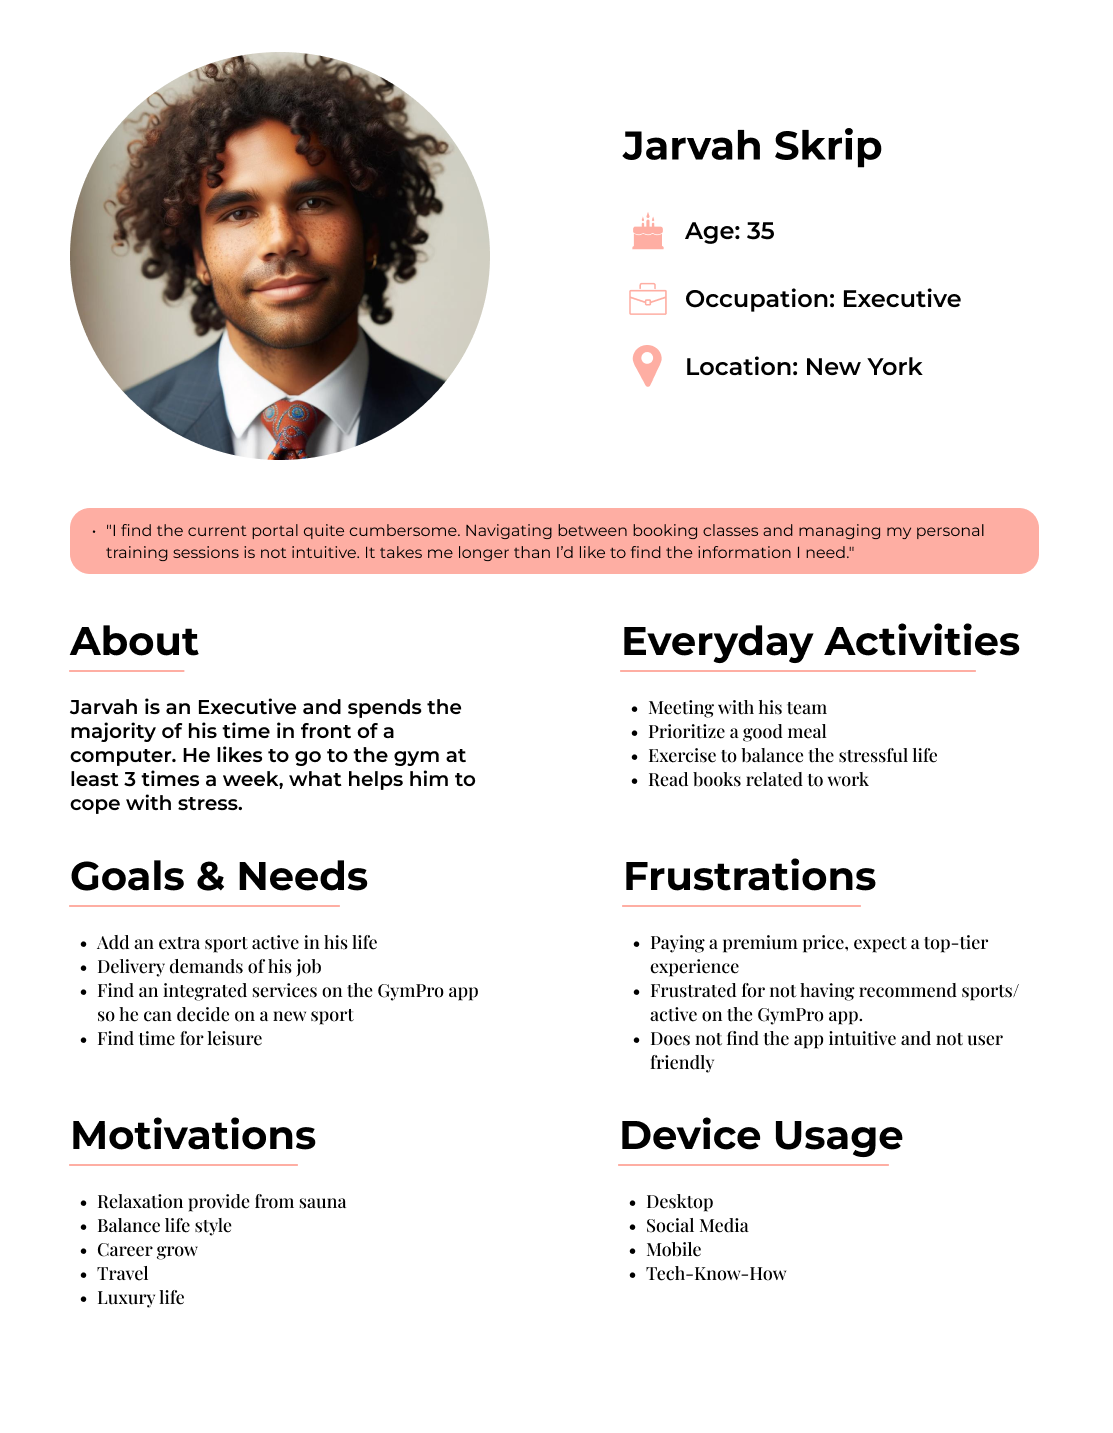
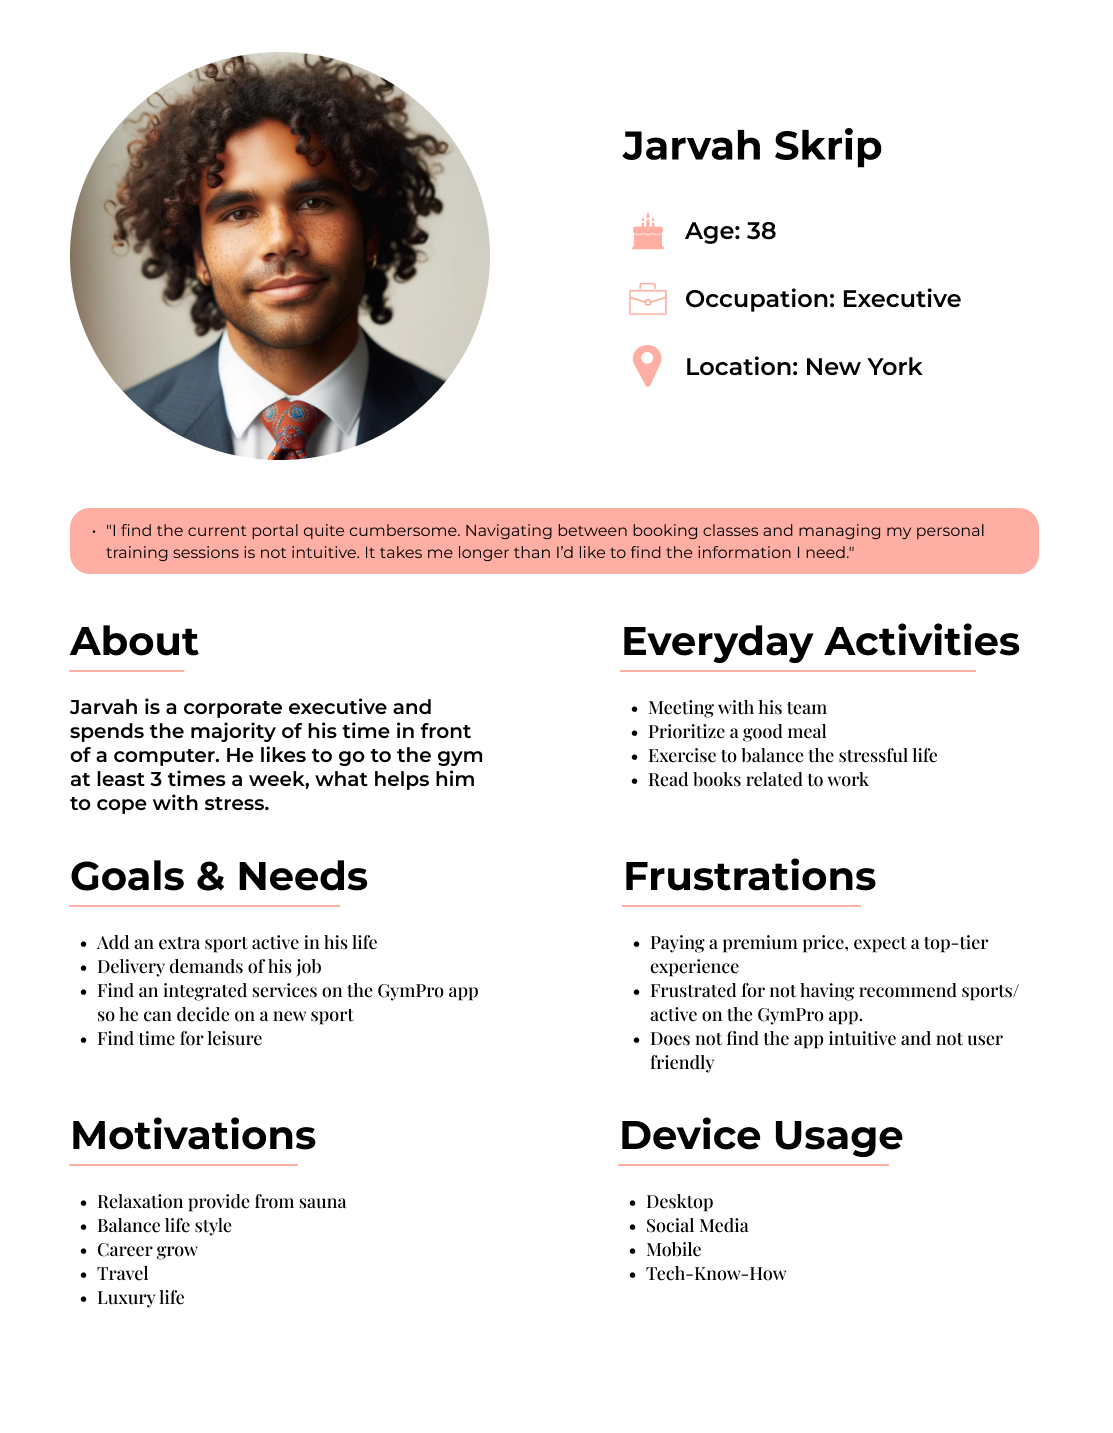
lo-fi-wireframe

Changed region(s): [[0.0611, 0.4913, 0.4277, 0.5834]]

diff --git a/projects/gym.html b/projects/gym.html
@@ -160,15 +160,14 @@
             <h3>Personas</h3>
             <p>Persona is a tool that represents a group of target users and is created based on research data. Creating 2 personas helps to understand of what the users are looking for.</p>
             <p>The primary persona is Jarvah the high-income client. He goes to the gym almost every day, however he finds hard to make better use of all services offered because the app is not user friendly.</p>
-            <p>The secondary persona is Rachel, is a sport enthusiast, who find it hard to coordanate class and revory in the SPA and also wants to find her suppliments and gear sports in one realiable place.</p>
+            <p>The secondary persona is Rachel, is a sport enthusiast, who find it hard to coordanate class, recovery in the SPA and also wants to find her suppliments and gear sports in one realiable place.</p>
             <div class="container-personas">
               <img class="persona" src="../assets/PersonaGym1.png" alt="persona">
               <img class="persona" src="../assets/PersonaGym2.png" alt="persona">
             </div>
-            <h3>Problem Statement</h3>
-            <p>GymPro's current member portal is not meeting the expectations of its luxury-seeking, high-income and sport enthusiasts clientele. The portal's poor usability, lack of centralized booking, and insufficient class information are significant pain points for members. These issues are causing frustration, reducing the frequency of portal usage, and negatively impacting overall member satisfaction and engagement with GymPro's services.</p>
             <h3>How Might We</h3>
             <p>HMW is a design thinking activity used to translate problems into opportunites for design.</p>
+            <p>The plan is to generate as many as questions to validadte and find out insights.</p>
             <ol>
               <li>HMW improve the usability of the GymPro member portal to enhance user satisfaction and engagement?</li>
               <li>HMW create a centralized booking system within the GymPro portal to simplify the scheduling process for members?</li>
@@ -183,6 +182,8 @@
               <p>Scenario: Jarvah, a 38-year-old successful corporate executive with a high annual income. Jarvah values efficiency, quality, and exclusivity in all his activities. He has a busy schedule and prioritizes health and fitness, making him a regular at GymPro. He enjoys using high-tech solutions that save time and enhance her lifestyle.</p>
             </div>
             <img class="customer-journey" src="../assets/customer journey.png" alt="customer-journey">
+            <h3>Problem Statement</h3>
+            <p>GymPro's current member portal is not meeting the expectations of its luxury-seeking, high-income and sport enthusiasts clientele. The portal's poor usability, lack of centralized booking, and insufficient class information are significant pain points for members. These issues are causing frustration, reducing the frequency of portal usage, and negatively impacting overall member satisfaction and engagement with GymPro's services.</p>
           </section>
           <section>
             <h2 class="underlined-title">Develop</h2>
@@ -194,7 +195,30 @@
             <p>Based on the information gathered during the research and persona phase, I was able to decide the main categories of my app. Hence, I performed a <span class="card-sorting-description">closed card sorting</span> to understand which feature fits best under which category.</p>
             <img class="card-sorting" src="../assets/card-sorting.png" alt="card-sorting">
             <h3>Site Map</h3>
+            <div class="background-colored">
+              <h3>Defining the MVP</h3>
+              <p>Conduction sketching sessions to map out the user flow and come up with a storyboard to capture the MVP.</p>
+              <p>Identifying the following key features:</p>
+              <ul>
+                <li><span class="mvp-key">Improve usability and navigation.</span> Simple, clean and intuitive layout, quick access to primary features.</li>
+                <li><span class="mvp-key">Centralize booking for all gym activities.</span> Members can book various classes and reserve spa services.</li>
+                <li><span class="mvp-key">Provide detailed class information.</span> Comprehensive descriptions, including difficulty levels.</li>
+                <li><span class="mvp-key">Introduce a personalized recommendations.</span> Suggested classes and activities based on user preferences.</li>
+                <li><span class="mvp-key">Integrate online store for branded products.</span> Display a range of branded products, including supplements.</li>
+              </ul>
+              <p>Including the core features necessary to address the primary pain points and provide immediate value to members. The goal is to deliver a functional and user-friendly portal that enhances the user satisfaction, while allowing for future interactions based on user feedback.</p>
+            </div>
+            <h3>Wireframes</h3>
+            <p>Wireframes help establishing a skeleton view of the app screens.
+            </p>
+            <img class="wireframe-gym"  src="../assets/wireframegym.png" alt="wireframe">
+            <h3>Lo-fi prototype</h3>
+            <img class="lo-fi-gym" src="../assets/Lo-fi-gym.png" alt="lo-fi-gym">
+            <h3>UI Kit</h3>
 
+          </section>
+          <section>
+            
           </section>
 
 

diff --git a/projects/project-style.css b/projects/project-style.css
@@ -34,6 +34,13 @@ section.background-colored {
     background-color: var(--background-color);
 }
 
+div.background-colored {
+    padding-bottom: 32px;
+    padding: 16px;
+    background-color: var(--background-color);
+
+}
+
 .prototype-link, .prototype-link:visited{
     display: inline-block;
     margin: 16px 0;
@@ -967,4 +974,23 @@ img.carousel-desktop {
 .card-sorting{
     width: 100%;
     margin-top: 30px;
+}
+
+.mvp-key{
+    font-weight: 600;
+}
+
+li{
+    padding-bottom: 8px;
+    padding-top: 8px;
+}
+
+.wireframe-gym{
+    width: 50%;
+    margin: 16px 20%;
+}
+
+.lo-fi-gym{
+    width: 80%;
+    margin: 16px 10%;
 }
